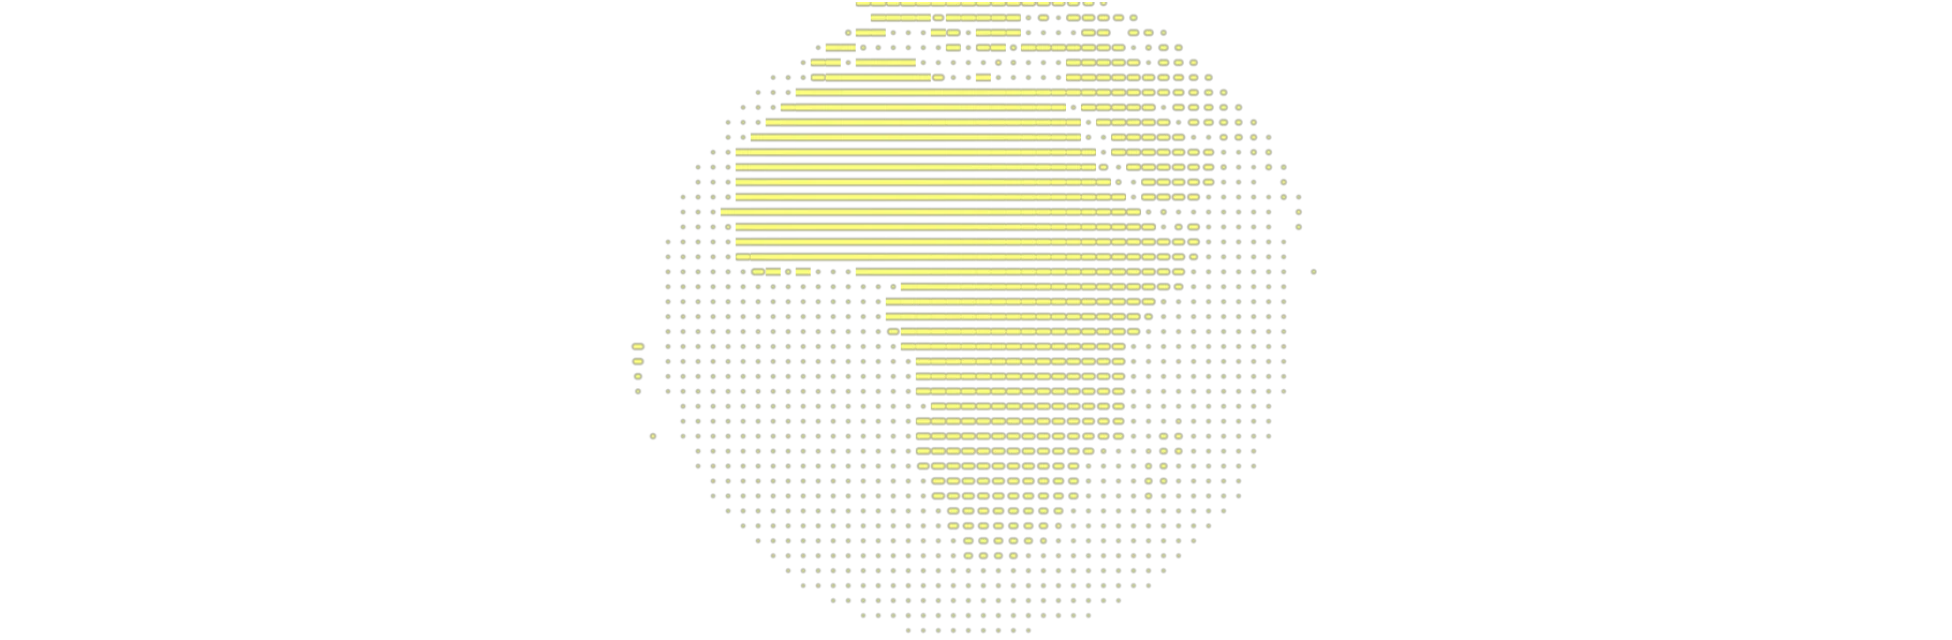
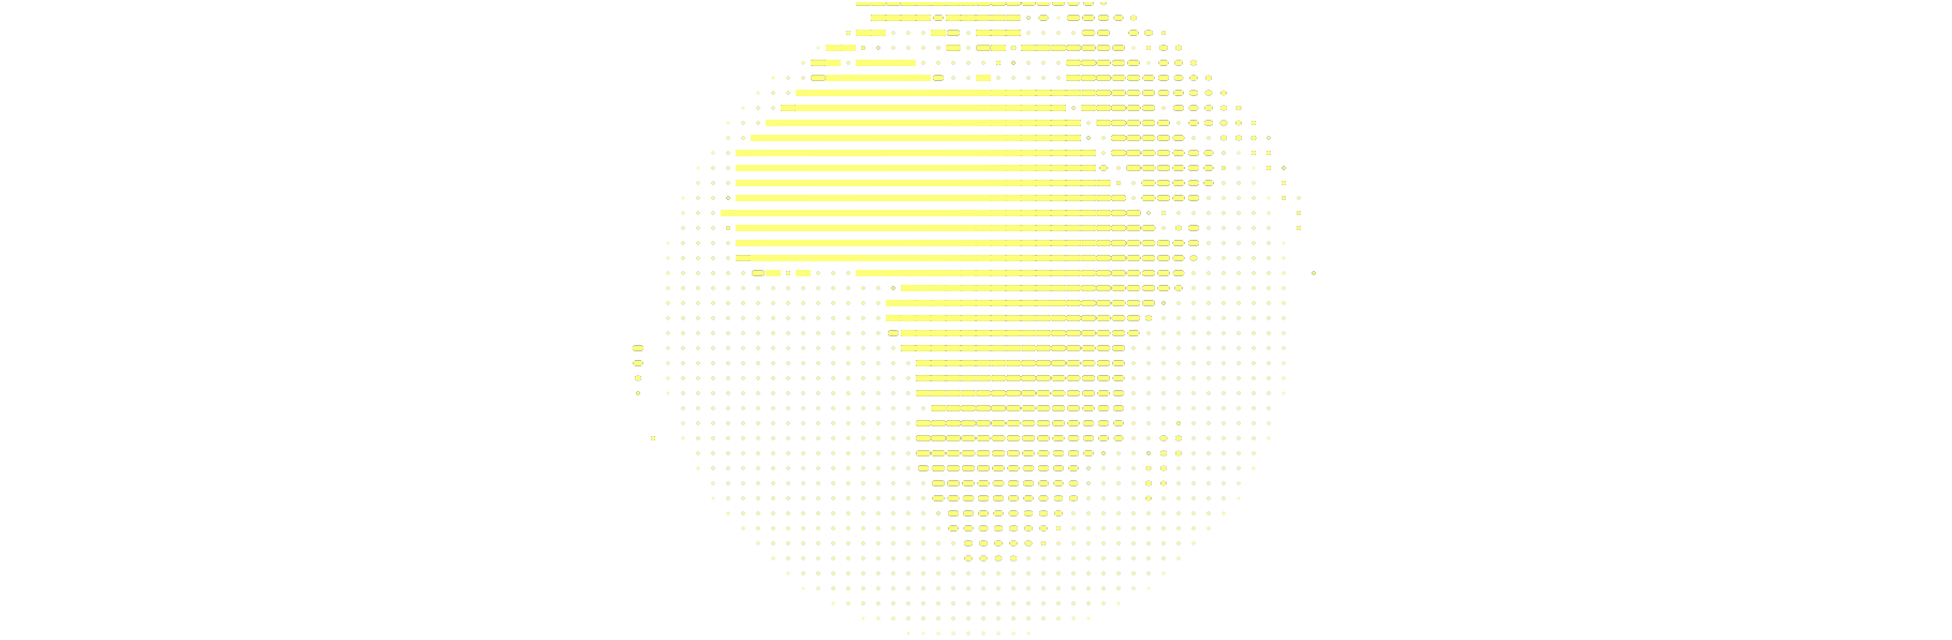
Keep the partners globe's halftone sharp on dense screens
The dots were smoothed over a CSS pixel, two device pixels on a retina
screen; they now are over one device pixel, as the site's own halftone
keeps its edges. The directory cards' region stills are rendered again
from the sharp shader.

Changed region(s): [[0.3125, 0.0, 0.6562, 0.9688]]

diff --git a/packages/twenty-website/src/sections/partners-directory/PartnersGlobe.tsx b/packages/twenty-website/src/sections/partners-directory/PartnersGlobe.tsx
@@ -133,7 +133,9 @@ const HALFTONE_FRAGMENT = /* glsl */ `
     float alpha = 0.0;
     if (level > 0.0001) {
       vec2 f = fract(frag / cell) - 0.5;
-      float aa = 1.0 / cell;
+      // one device pixel of smoothing, in cell units: a CSS pixel blurs the
+      // dots on a dense screen
+      float aa = 0.5 * logicalResolution.x / max(effectResolution.x, 1.0) / cell;
       float roundness = 0.08 + 0.3 * level;
       // the power leaves the lit land around 0.3-0.5: that range stretches into dashes
       float stretch = 0.5 * dotScale * smoothstep(0.22, 0.5, level);
